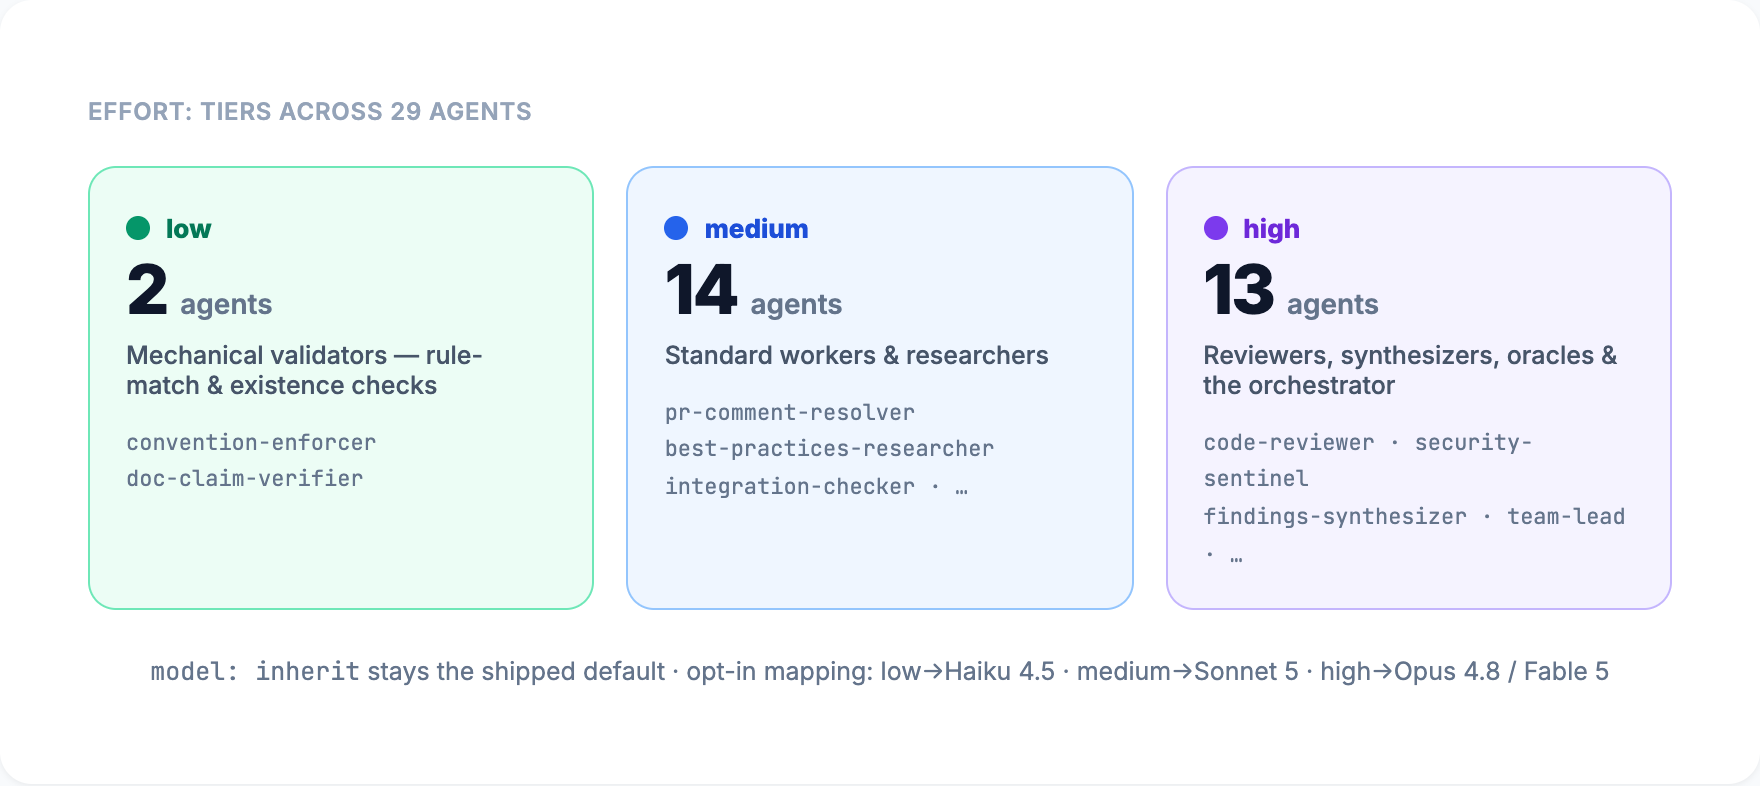
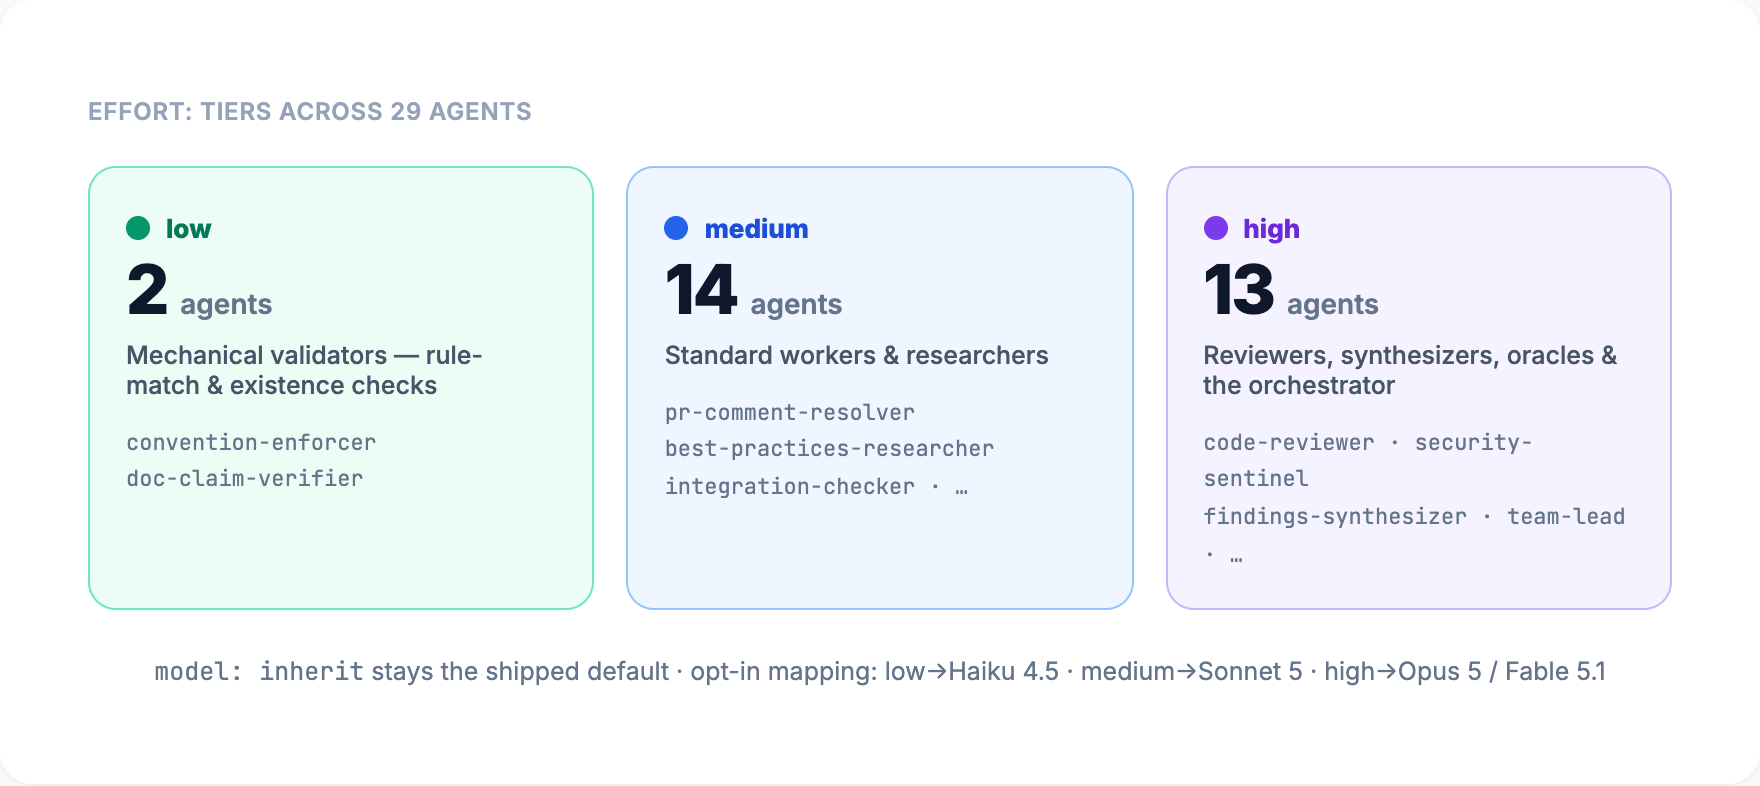
docs(images): re-render effort-tiers and platform-currency diagrams for the 2026-09 refresh
Labels now read Opus 5 / Fable 5.1, subagent caps (20 concurrent, depth 3,
200 WebSearches), workflow gating (paid plans, Pro opt-in, org switch) and
fast mode (Opus 5 / 4.8). Rendered via docs/images/render-diagrams.js at 2x;
existing alt texts stay accurate.

Changed region(s): [[0.0938, 0.8244, 0.9062, 0.8855]]

diff --git a/docs/images/render-diagrams.html b/docs/images/render-diagrams.html
@@ -2455,7 +2455,7 @@
       <div class="et-ex">code-reviewer · security-sentinel<br>findings-synthesizer · team-lead · …</div>
     </div>
   </div>
-  <div class="fx-note"><code>model: inherit</code> stays the shipped default · opt-in mapping: low→Haiku 4.5 · medium→Sonnet 5 · high→Opus 4.8 / Fable 5</div>
+  <div class="fx-note"><code>model: inherit</code> stays the shipped default · opt-in mapping: low→Haiku 4.5 · medium→Sonnet 5 · high→Opus 5 / Fable 5.1</div>
 </div>
 
 <!-- ════════════ CONSISTENCY GATES ════════════ -->
@@ -2514,13 +2514,13 @@
   <div class="fx-cap">native platform features — adopted as guarded opt-ins</div>
   <div class="pc-grid">
     <div class="pc-item"><span class="pc-name">effort: tiers<small>per-agent reasoning depth</small></span><span class="fx-pill pc-ship">SHIPPED</span></div>
-    <div class="pc-item"><span class="pc-name">Claude 5 lineup<small>model: inherit rides it</small></span><span class="fx-pill pc-ship">AUTO</span></div>
+    <div class="pc-item"><span class="pc-name">Claude 5 lineup<small>Opus 5 · Fable 5.1 · inherit rides it</small></span><span class="fx-pill pc-ship">AUTO</span></div>
     <div class="pc-item"><span class="pc-name">/goal<small>condition completion</small></span><span class="fx-pill pc-opt">OPT-IN</span></div>
     <div class="pc-item"><span class="pc-name">/loop + ScheduleWakeup<small>circuit breaker retained</small></span><span class="fx-pill pc-opt">COMPLEMENT</span></div>
     <div class="pc-item"><span class="pc-name">injection hardening<small>reinforces custom scanners</small></span><span class="fx-pill pc-ship">REINFORCES</span></div>
-    <div class="pc-item"><span class="pc-name">session caps · 200<small>subagents · WebSearches</small></span><span class="fx-pill pc-opt">DOCUMENTED</span></div>
-    <div class="pc-item"><span class="pc-name">Workflow tool / ultracode<small>very large fan-outs</small></span><span class="fx-pill pc-gated">GATED</span></div>
-    <div class="pc-item"><span class="pc-name">fast mode<small>research preview</small></span><span class="fx-pill pc-gated">GATED</span></div>
+    <div class="pc-item"><span class="pc-name">subagent caps<small>20 concurrent · depth 3 · 200 WebSearches</small></span><span class="fx-pill pc-opt">DOCUMENTED</span></div>
+    <div class="pc-item"><span class="pc-name">Workflow tool / ultracode<small>paid plans · Pro opt-in · org switch</small></span><span class="fx-pill pc-gated">GATED</span></div>
+    <div class="pc-item"><span class="pc-name">fast mode<small>Opus 5 / 4.8 · research preview</small></span><span class="fx-pill pc-gated">GATED</span></div>
   </div>
   <div class="fx-note">No core pipeline depends on a gated or experimental feature — a deliberate stability guardrail</div>
 </div>
